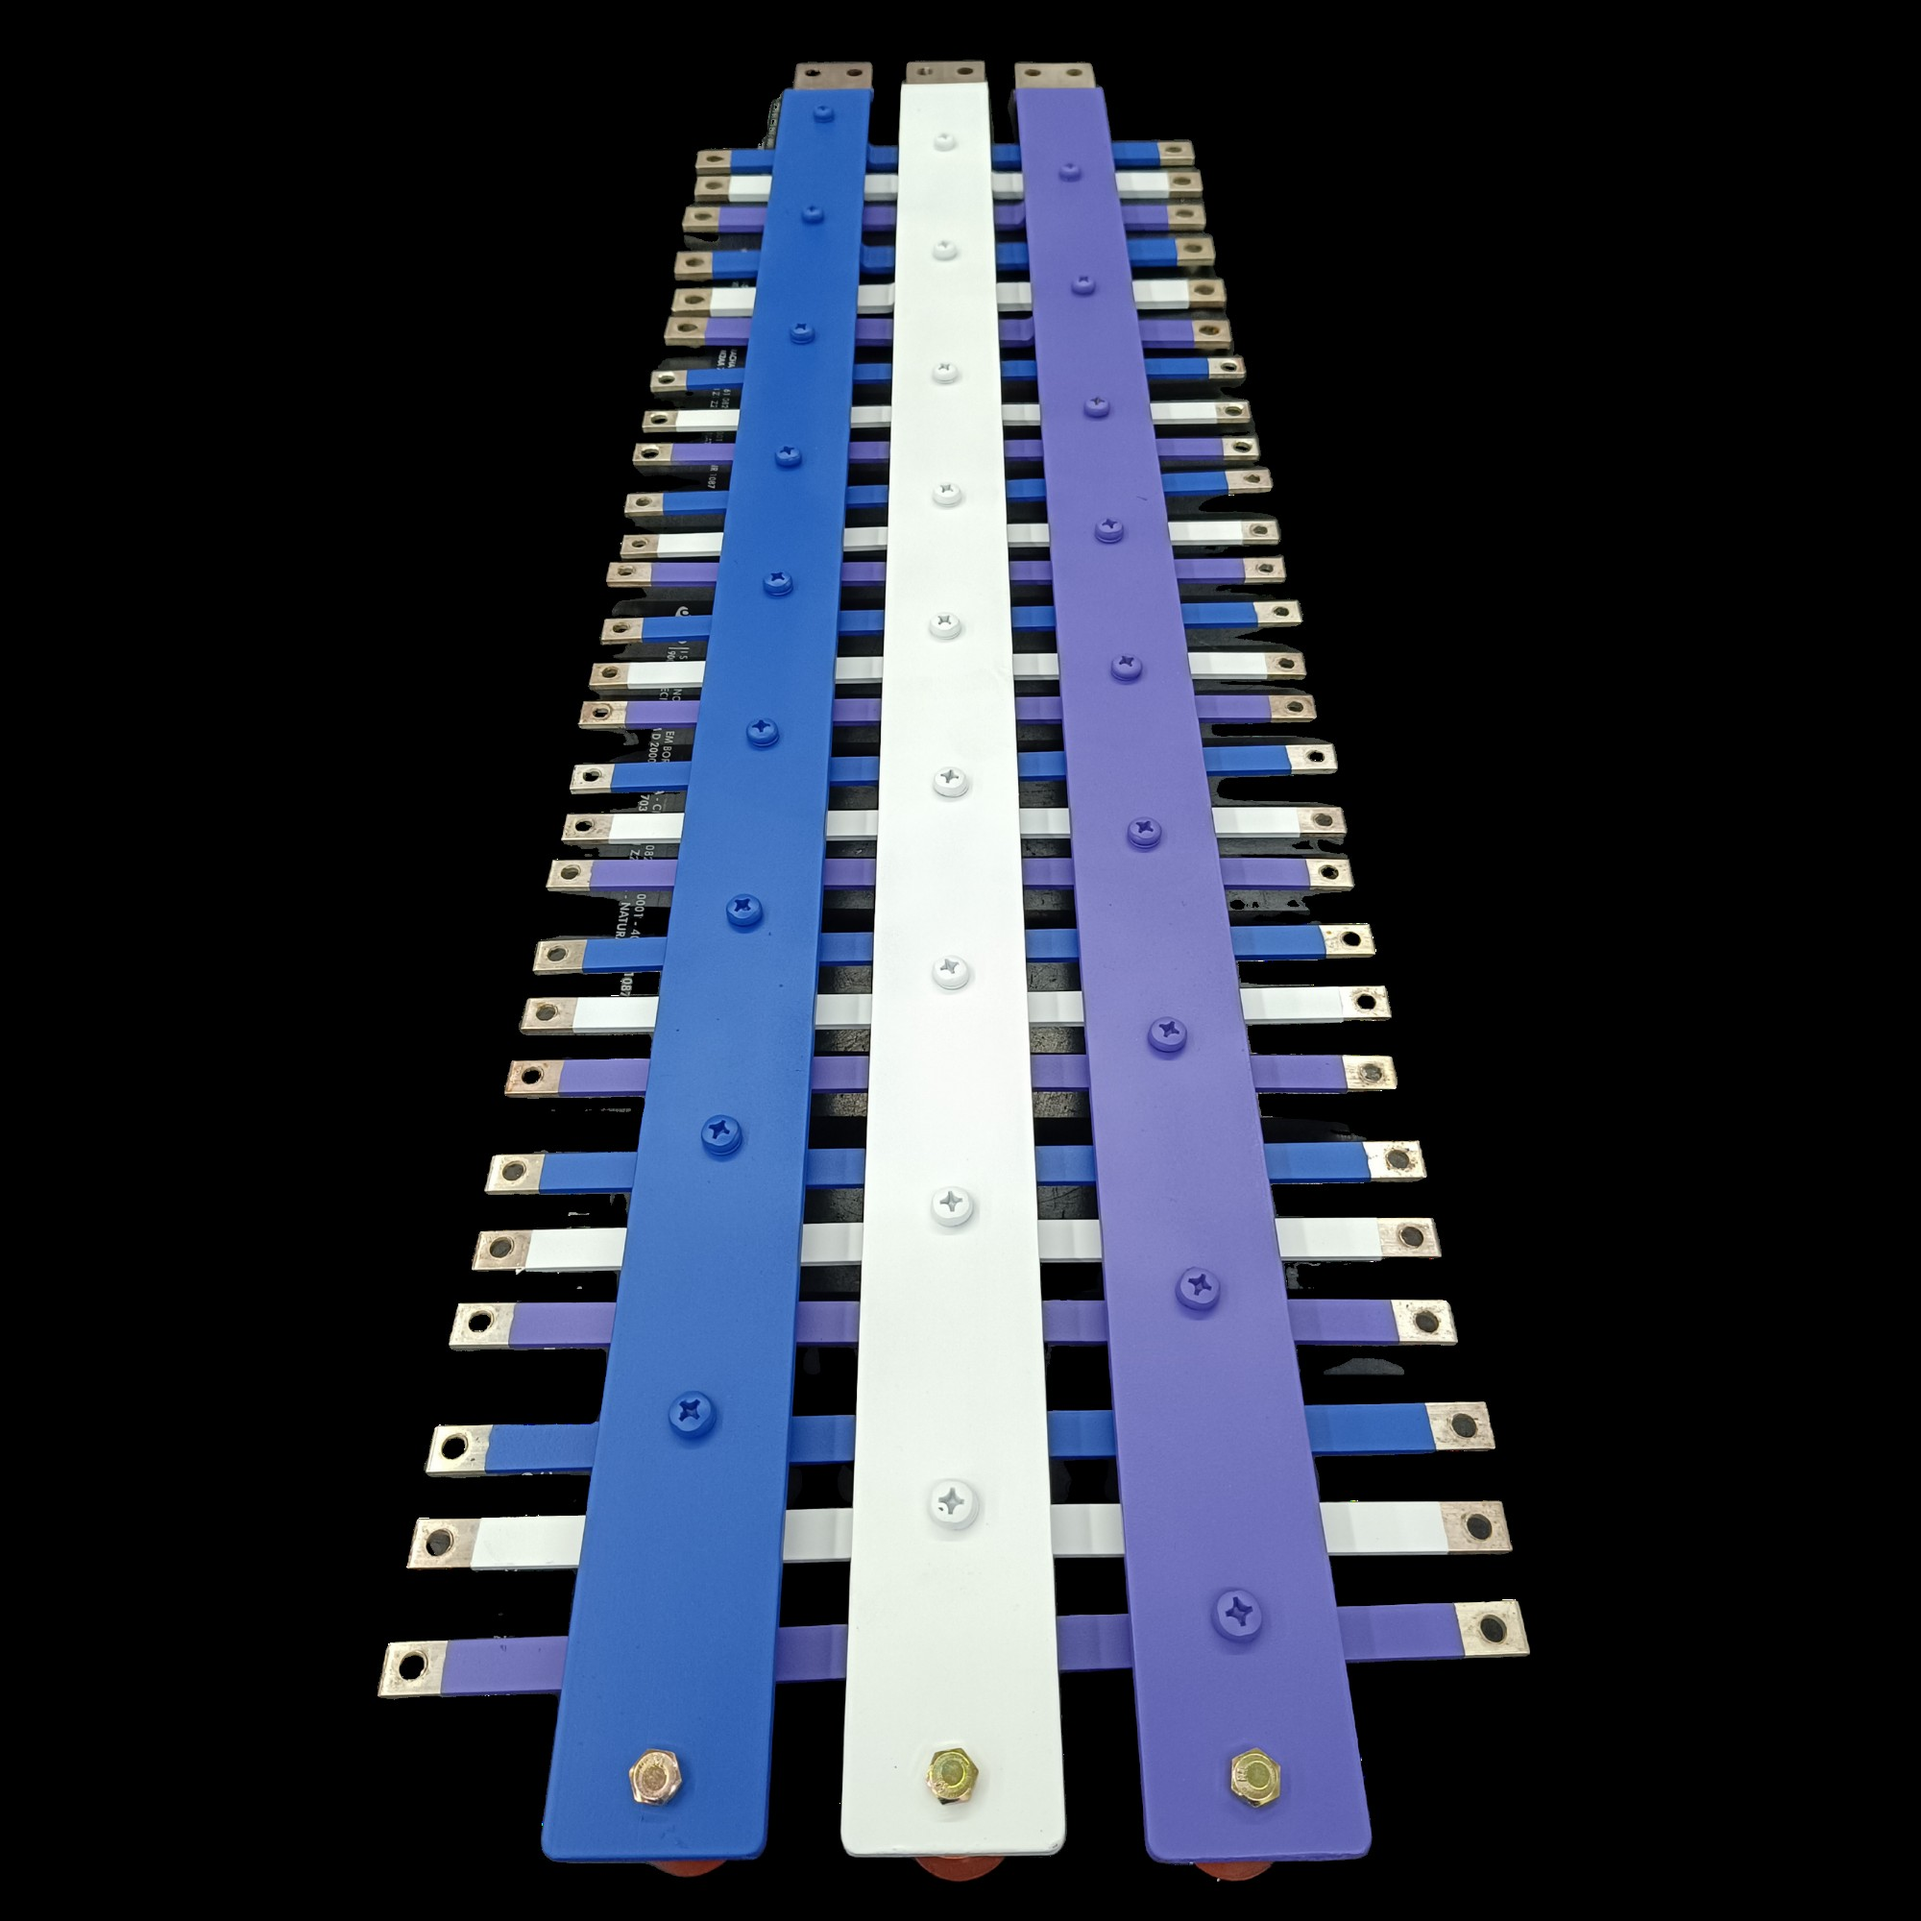
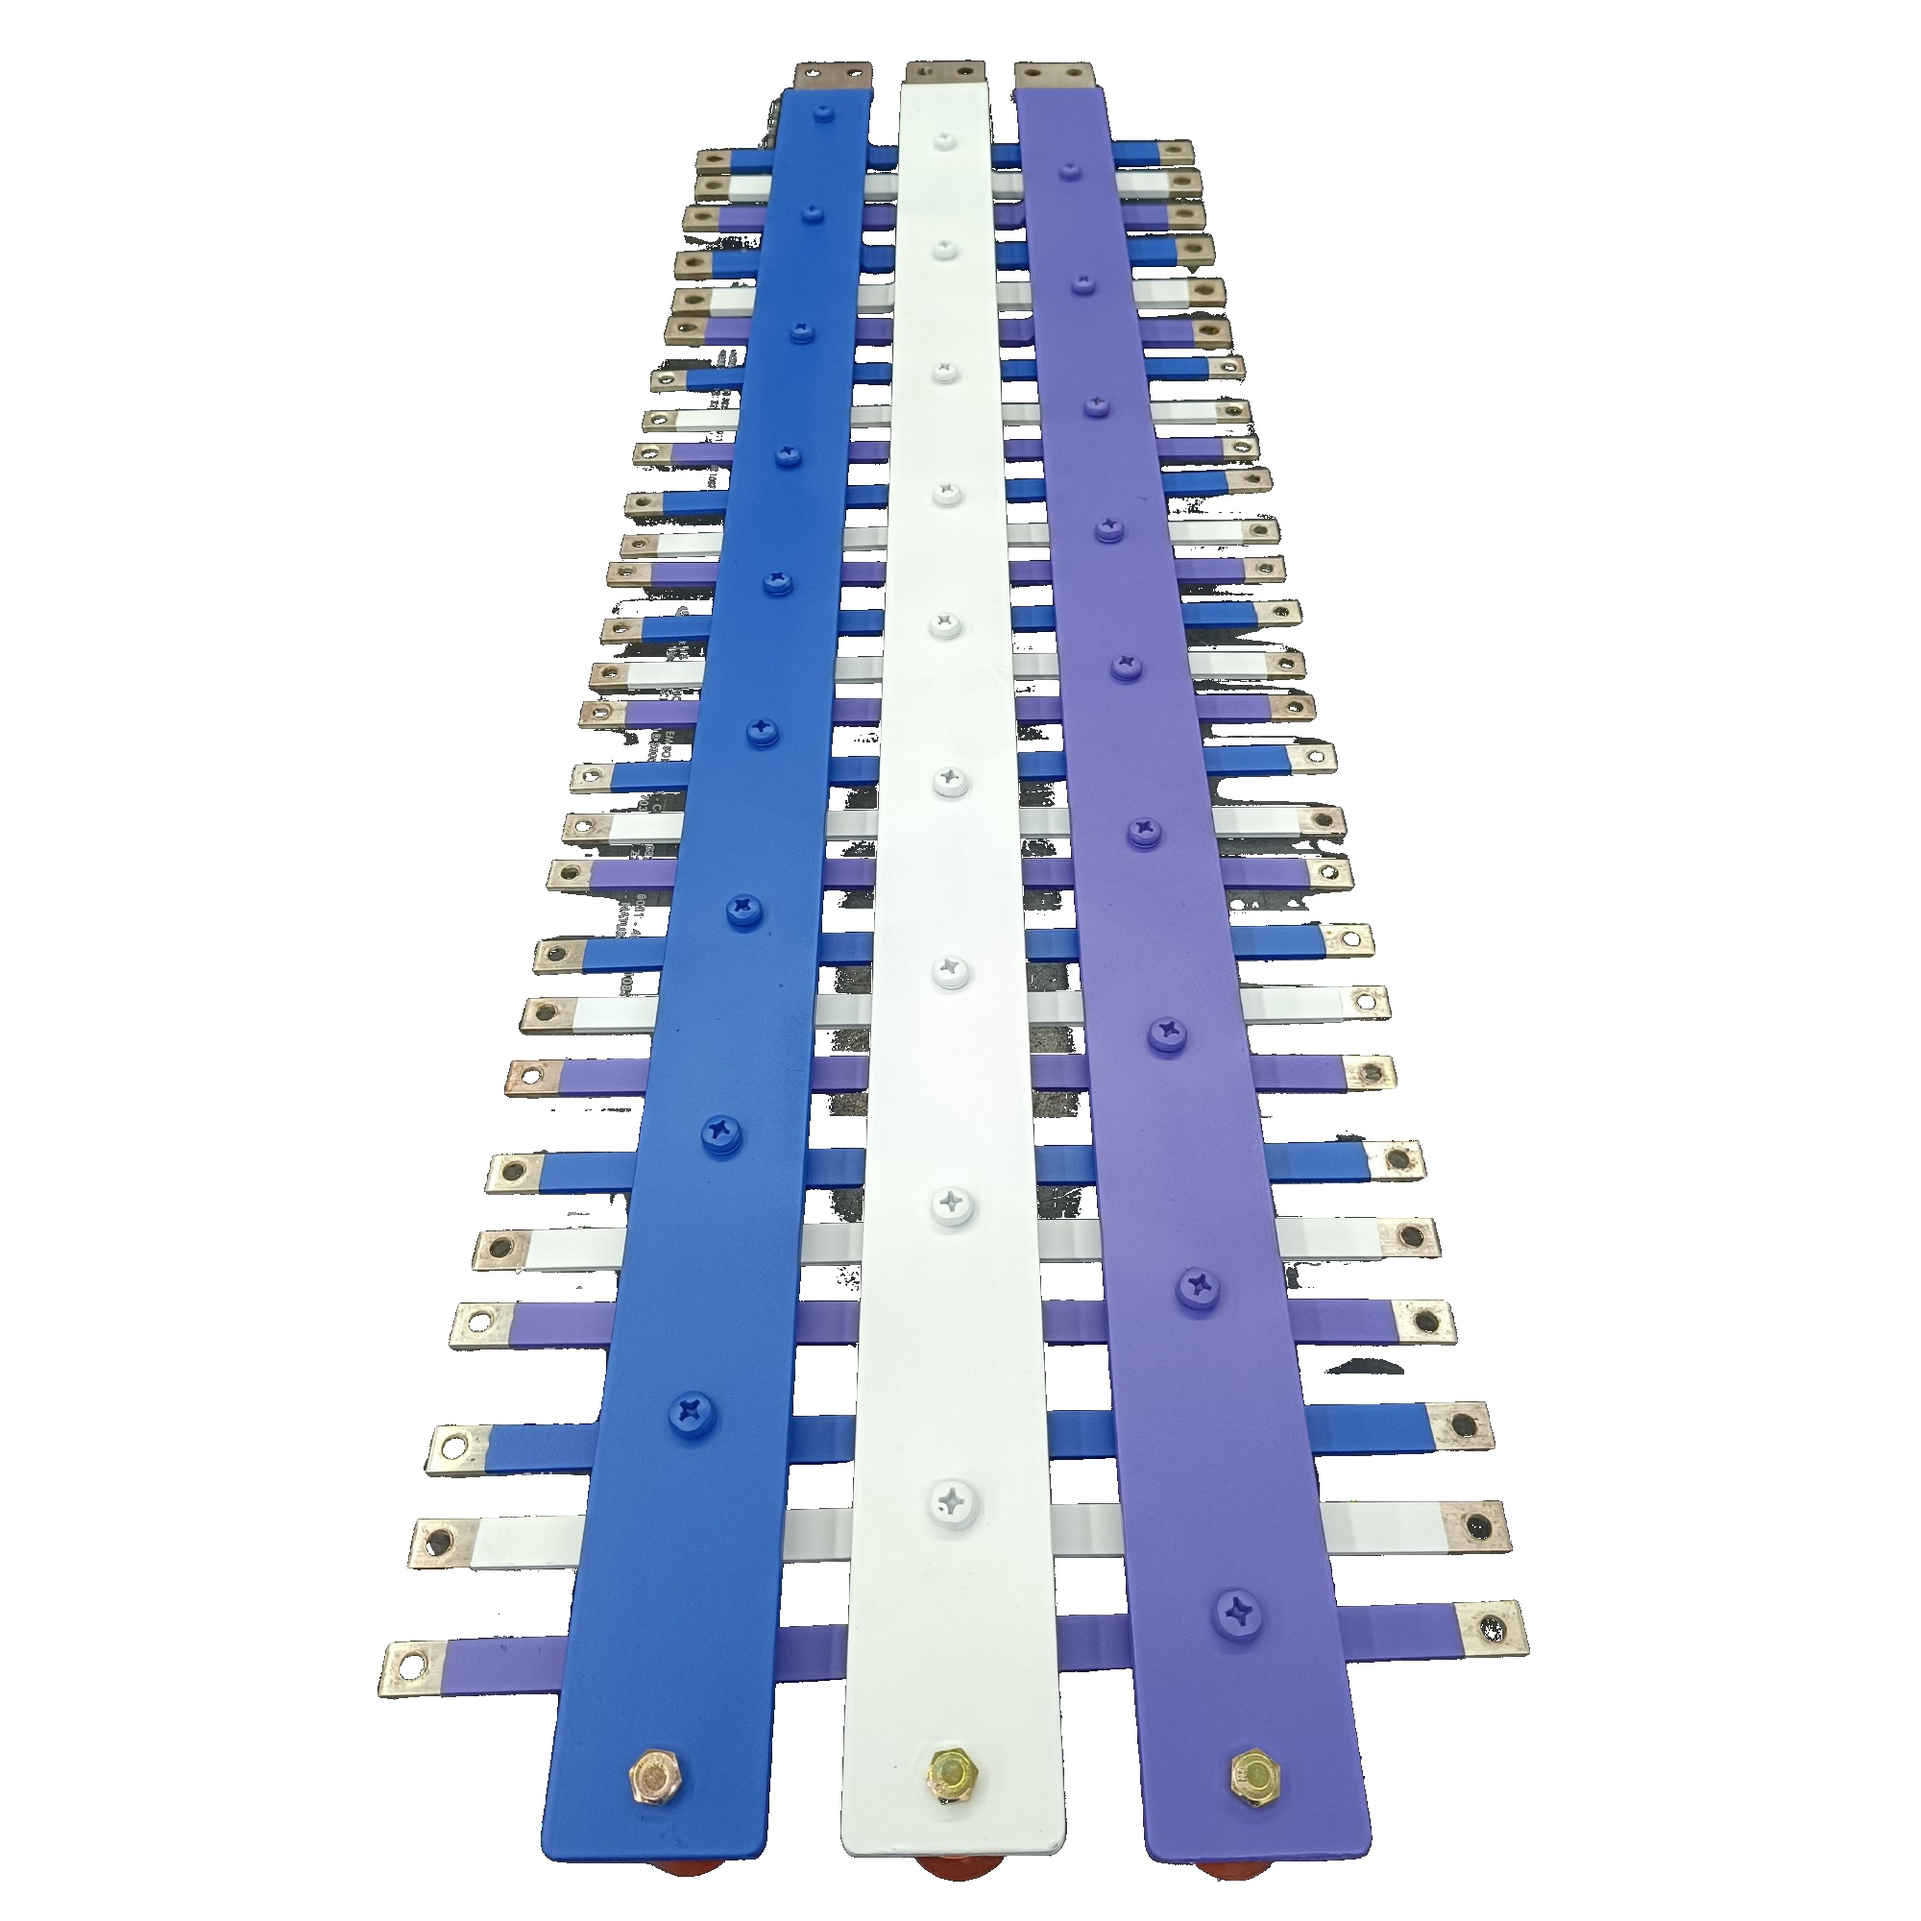
Fix imagens sem corte e fundo branco na especial

diff --git a/barramento-especial-din.html b/barramento-especial-din.html
@@ -70,14 +70,15 @@
         align-items:start;
     }
     .variant-img {
-        width:100%;aspect-ratio:4/3;
+        width:100%;
         border-radius:var(--radius);overflow:hidden;
-        background:var(--bg-light);
+        background:#fff;
         display:flex;align-items:center;justify-content:center;
         border:1px solid var(--border);
+        padding:16px;
     }
     .variant-img svg { width:56px;height:56px;stroke:var(--text-muted);fill:none;stroke-width:1;opacity:0.4; }
-    .variant-img img { width:100%;height:100%;object-fit:cover; }
+    .variant-img img { width:100%;height:auto;object-fit:contain; }
     .variant-info {}
     .variant-info p {
         font-size:14px;color:var(--text-secondary);line-height:1.7;margin-bottom:16px;

diff --git a/fix_fundo_especial.py b/fix_fundo_especial.py
@@ -1,0 +1,19 @@
+"""Troca fundo preto da imagem especial para branco"""
+from PIL import Image
+import numpy as np
+
+img_path = r"C:\Users\kauap\Documents\aepaineis-site\img\din-sobmedida-especial.jpg"
+
+img = Image.open(img_path).convert("RGB")
+arr = np.array(img)
+
+# Pixels escuros (fundo preto): R,G,B todos < 45
+mask = (arr[:,:,0] < 45) & (arr[:,:,1] < 45) & (arr[:,:,2] < 45)
+
+# Trocar para branco
+arr[mask] = [255, 255, 255]
+
+result = Image.fromarray(arr)
+result.save(img_path, quality=95)
+print(f"Fundo trocado para branco: {img_path}")
+print("Pronto!")
